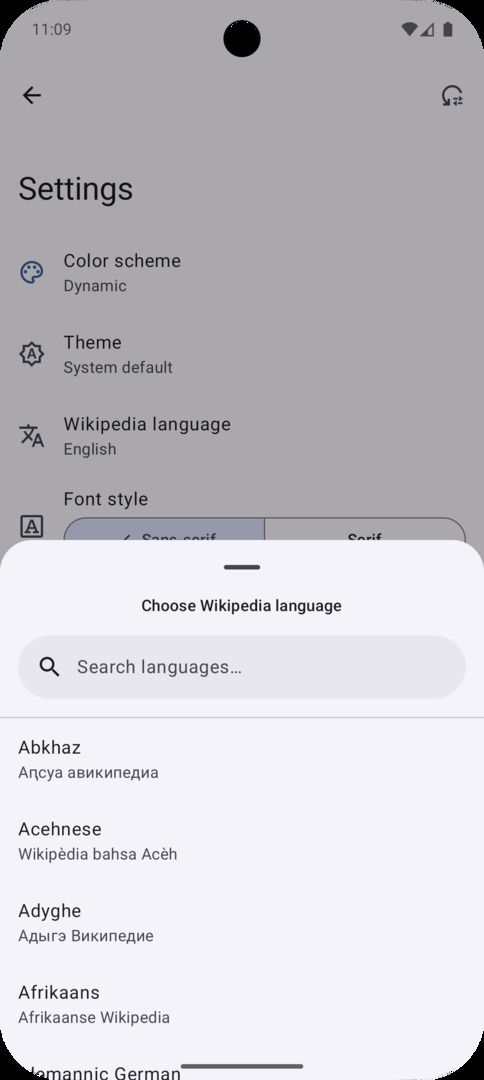
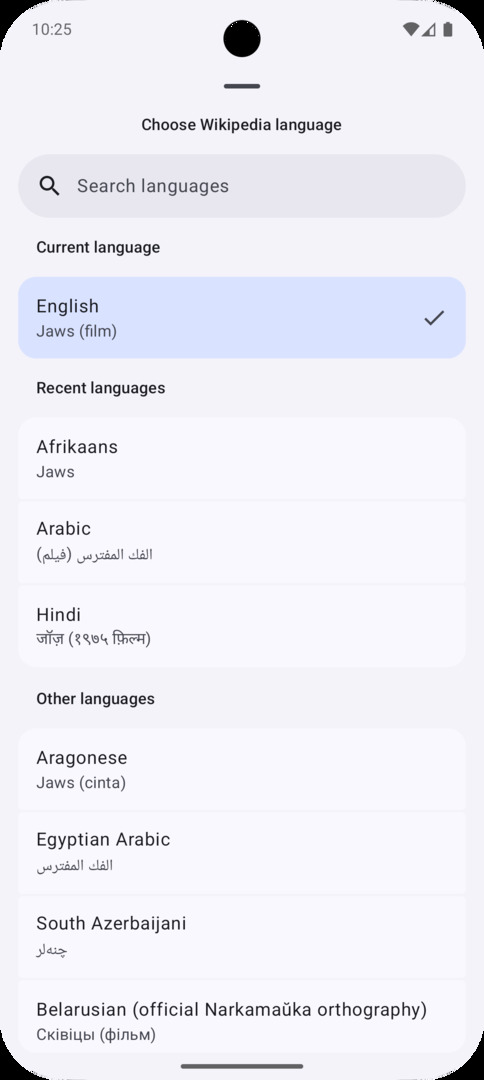
Remote double languages in article language list, add labels, update ss
Closes #197

diff --git a/app/src/main/java/org/nsh07/wikireader/ui/homeScreen/ArticleLanguageBottomSheet.kt b/app/src/main/java/org/nsh07/wikireader/ui/homeScreen/ArticleLanguageBottomSheet.kt
@@ -16,9 +16,9 @@ import androidx.compose.material3.ExperimentalMaterial3Api
 import androidx.compose.material3.Icon
 import androidx.compose.material3.ListItem
 import androidx.compose.material3.ListItemDefaults
-import androidx.compose.material3.MaterialTheme
 import androidx.compose.material3.MaterialTheme.colorScheme
 import androidx.compose.material3.MaterialTheme.shapes
+import androidx.compose.material3.MaterialTheme.typography
 import androidx.compose.material3.ModalBottomSheet
 import androidx.compose.material3.Text
 import androidx.compose.material3.rememberModalBottomSheetState
@@ -31,7 +31,6 @@ import androidx.compose.ui.Modifier
 import androidx.compose.ui.draw.clip
 import androidx.compose.ui.res.stringResource
 import androidx.compose.ui.unit.dp
-import androidx.compose.ui.util.fastFilter
 import kotlinx.coroutines.launch
 import org.nsh07.wikireader.R
 import org.nsh07.wikireader.data.WikiLang
@@ -59,8 +58,8 @@ fun ArticleLanguageBottomSheet(
     val scope = rememberCoroutineScope()
     val bottomSheetState = rememberModalBottomSheetState()
 
-    val recentLangsForArticle =
-        remember(recentLangs, langs) { langs.fastFilter { it.lang in recentLangs } }
+    val articleLangs =
+        remember(recentLangs, langs) { langs.partition { it.lang in recentLangs } }
 
     ModalBottomSheet(
         onDismissRequest = {
@@ -73,7 +72,7 @@ fun ArticleLanguageBottomSheet(
         Column(horizontalAlignment = Alignment.CenterHorizontally) {
             Text(
                 text = stringResource(R.string.chooseWikipediaLanguage),
-                style = MaterialTheme.typography.labelLarge
+                style = typography.labelLarge
             )
             LanguageSearchBar(
                 searchStr = searchStr,
@@ -89,6 +88,13 @@ fun ArticleLanguageBottomSheet(
                     .padding(horizontal = 16.dp)
                     .clip(shapes.large)
             ) {
+                item {
+                    Text(
+                        stringResource(R.string.currentLanguage),
+                        style = typography.titleSmall,
+                        modifier = Modifier.padding(start = 16.dp, end = 16.dp, bottom = 16.dp)
+                    )
+                }
                 item {
                     val langName: String? = try {
                         langCodeToName(currentLang.lang)
@@ -120,12 +126,19 @@ fun ArticleLanguageBottomSheet(
                                 }
                             )
                     )
-                    Spacer(Modifier.height(16.dp))
                 }
-                if (recentLangsForArticle.isNotEmpty()) {
+                if (articleLangs.first.isNotEmpty()) {
+                    item {
+                        Text(
+                            stringResource(R.string.recentLanguages),
+                            style = typography.titleSmall,
+                            modifier = Modifier.padding(16.dp)
+                        )
+                    }
                     itemsIndexed(
-                        recentLangsForArticle,
-                        key = { index: Int, it: WikiLang -> "recent-" + it.lang }) { index, it ->
+                        articleLangs.first,
+                        key = { index: Int, it: WikiLang -> "recent-" + it.lang }
+                    ) { index, it ->
                         val langName: String? = try {
                             langCodeToName(it.lang)
                         } catch (_: Exception) {
@@ -139,7 +152,7 @@ fun ArticleLanguageBottomSheet(
                                 modifier = Modifier
                                     .clip(
                                         if (index == 0) topListItemShape
-                                        else if (index == recentLangsForArticle.size - 1) bottomListItemShape
+                                        else if (index == articleLangs.first.size - 1) bottomListItemShape
                                         else middleListItemShape
                                     )
                                     .clickable(
@@ -160,9 +173,22 @@ fun ArticleLanguageBottomSheet(
                             Spacer(Modifier.height(2.dp))
                         }
                     }
-                    item { Spacer(Modifier.height(16.dp)) }
                 }
-                itemsIndexed(langs, key = { index: Int, it: WikiLang -> it.lang }) { index, it ->
+                item {
+                    Text(
+                        stringResource(R.string.otherLanguages),
+                        style = typography.titleSmall,
+                        modifier = Modifier.padding(
+                            top = 14.dp,
+                            bottom = 16.dp,
+                            start = 16.dp,
+                            end = 16.dp
+                        )
+                    )
+                }
+                itemsIndexed(
+                    articleLangs.second,
+                    key = { index: Int, it: WikiLang -> it.lang }) { index, it ->
                     val langName: String? = try {
                         langCodeToName(it.lang)
                     } catch (_: Exception) {
@@ -176,7 +202,7 @@ fun ArticleLanguageBottomSheet(
                             modifier = Modifier
                                 .clip(
                                     if (index == 0) topListItemShape
-                                    else if (index == langs.size - 1) bottomListItemShape
+                                    else if (index == articleLangs.second.size - 1) bottomListItemShape
                                     else middleListItemShape
                                 )
                                 .clickable(

diff --git a/app/src/main/java/org/nsh07/wikireader/ui/settingsScreen/LanguageBottomSheet.kt b/app/src/main/java/org/nsh07/wikireader/ui/settingsScreen/LanguageBottomSheet.kt
@@ -15,9 +15,9 @@ import androidx.compose.material3.ExperimentalMaterial3Api
 import androidx.compose.material3.Icon
 import androidx.compose.material3.ListItem
 import androidx.compose.material3.ListItemDefaults
-import androidx.compose.material3.MaterialTheme
 import androidx.compose.material3.MaterialTheme.colorScheme
 import androidx.compose.material3.MaterialTheme.shapes
+import androidx.compose.material3.MaterialTheme.typography
 import androidx.compose.material3.ModalBottomSheet
 import androidx.compose.material3.Text
 import androidx.compose.material3.rememberModalBottomSheetState
@@ -74,7 +74,7 @@ fun LanguageBottomSheet(
         Column(horizontalAlignment = Alignment.CenterHorizontally) {
             Text(
                 text = stringResource(R.string.chooseWikipediaLanguage),
-                style = MaterialTheme.typography.labelLarge
+                style = typography.labelLarge
             )
             LanguageSearchBar(
                 searchStr = searchStr,
@@ -90,7 +90,14 @@ fun LanguageBottomSheet(
                     .padding(horizontal = 16.dp)
                     .clip(shapes.large)
             ) {
-                if (recentLangs.isNotEmpty()) {
+                if (recentLangs.isNotEmpty() && searchQuery.isEmpty()) {
+                    item {
+                        Text(
+                            stringResource(R.string.recentLanguages),
+                            style = typography.titleSmall,
+                            modifier = Modifier.padding(start = 16.dp, end = 16.dp, bottom = 16.dp)
+                        )
+                    }
                     itemsIndexed(
                         recentLangs,
                         key = { _: Int, it: String -> it }
@@ -136,9 +143,19 @@ fun LanguageBottomSheet(
                             Spacer(Modifier.height(2.dp))
                         }
                     }
-                    item { Spacer(Modifier.height(16.dp)) }
                 }
-
+                item {
+                    Text(
+                        stringResource(R.string.otherLanguages),
+                        style = typography.titleSmall,
+                        modifier = Modifier.padding(
+                            top = 14.dp,
+                            bottom = 16.dp,
+                            start = 16.dp,
+                            end = 16.dp
+                        )
+                    )
+                }
                 itemsIndexed(
                     langNames,
                     key = { _: Int, it: String -> it }

diff --git a/app/src/main/java/org/nsh07/wikireader/ui/historyScreen/HistoryScreen.kt b/app/src/main/java/org/nsh07/wikireader/ui/historyScreen/HistoryScreen.kt
@@ -118,7 +118,7 @@ fun HistoryScreen(
         topBar = {
             LargeFlexibleTopAppBar(
                 title = { Text(stringResource(R.string.history)) },
-                subtitle = { Text("${viewHistory.size} items") },
+                subtitle = { Text(stringResource(R.string.items, viewHistory.size)) },
                 navigationIcon = {
                     IconButton(
                         onClick = onBack,
